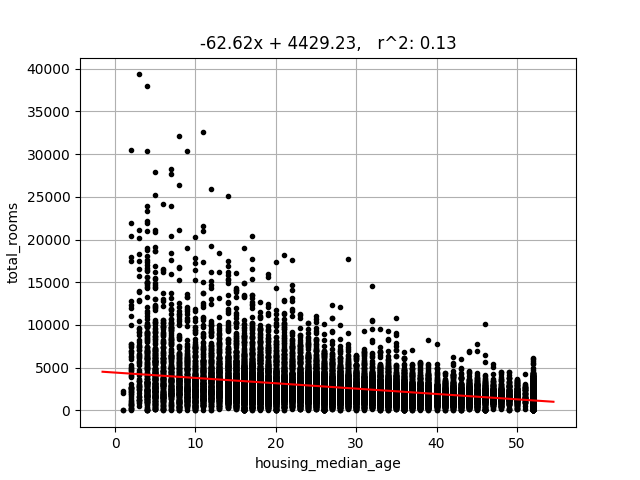
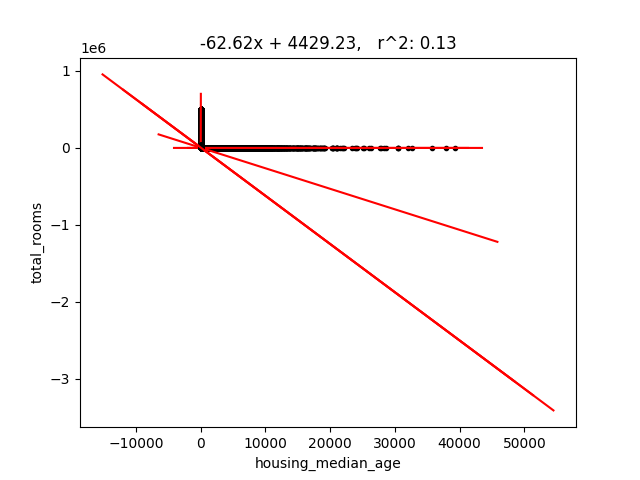
Tenemos interfaz gráfica chavales

diff --git a/interfaz.py b/interfaz.py
@@ -1,20 +1,56 @@
-#de momento solo es una ventana con un botón que outputea una imagen.
-#Hay qye installar el tkinter y el Pillow para que vaya.
 from tkinter import *
-from PIL import ImageTk, Image
+from tkinter import PhotoImage
+from tkinter import filedialog
+from PIL import Image, ImageTk
+import pandas as p
+import numpy as np
+import matplotlib.pyplot as plt
+from sklearn.linear_model import LinearRegression
+from regresion import *
+# Función para mostrar la imagen al hacer clic en el botón
 
-window = Tk()
-window.title("a")
-window.geometry("900x900")
+# Crear una ventana principal
+root = Tk()
+root.title("Mostrar Imagen")
+root.geometry("900x1000")
 
-def output():
-    image = Image.open("fig.png")
-    photo = ImageTk.PhotoImage(image)
-    label = Label(window, image=photo)
-    label.image = photo
-    label.place(x=100,y=100)
+def mostrar(data):
+    i = 0
+    for c in data.columns:
+        print(f'Columna número {i}: {c}')
+        label = Label(root,text=f'Columna número {i}: {c}').pack()
+        i += 1
     
+def leer():
+    global data
+    root.filename = filedialog.askopenfile(initialdir="/modelos")
+    data = p.read_csv(root.filename)
+    mostrar(data)
 
-button = Button(window,text = "display", command=output)
+def mostrar_imagen():
+    global entry1
+    global entry2
+    global imagen
+    num1 = int(entry1.get())
+    num2 = int(entry2.get())
+    regresionF(data,num1,num2)
+
+    imagen = ImageTk.PhotoImage(Image.open("fig.png"))
+    imagen1 = Label(image=imagen).place(x =150, y = 500)
+
+# Crear un botón
+buttonl = Button(root,text="leer archivo",command = leer).pack()
+
+button = Button(root, text="Mostrar Imagen", command=mostrar_imagen)
 button.pack()
-window.mainloop()
+
+entry1= Entry(root, width= 40)
+entry1.focus_set()
+entry1.place(x =330, y= 450)
+
+entry2= Entry(root, width= 40)
+entry2.focus_set()
+entry2.place(x=330, y =480)
+Button(root, text="Quit", command=root.destroy).pack()
+# Ejecutar el bucle principal
+root.mainloop()

diff --git a/regresion.py b/regresion.py
@@ -1,0 +1,33 @@
+import pandas as p
+import numpy as np
+import matplotlib.pyplot as plt
+from sklearn.linear_model import LinearRegression
+
+def abline(slope, intercept):
+    """
+    robado de: https://stackoverflow.com/questions/7941226/how-to-add-line-based-on-slope-and-intercept
+    """
+    axes = plt.gca()
+    x_vals = np.array(axes.get_xlim())
+    y_vals = intercept + slope * x_vals
+    plt.plot(x_vals, y_vals, '-r') # fmt = '[marker][line][color]'
+
+def regresionF(data,i,j):
+    selectedColumns = data.iloc[:, [i, j]]
+    x = np.array(selectedColumns.iloc[:, 0]).reshape((-1, 1)) # este es una columna con muchas filas
+    y = np.array(selectedColumns.iloc[:, 1])
+
+    model = LinearRegression().fit(x, y)
+
+    intercept = model.intercept_ # término independiente
+    slope = model.coef_[0]
+    eq = f'{round(slope, 2)}x ' + ('+' if intercept > 0 else '-') + f' {round(abs(intercept), 2)}'
+    
+    r_sq = round(model.score(x, y), 2)
+    plt.plot(x, y, '.k')
+    plt.ylabel(selectedColumns.columns[1])
+    plt.xlabel(selectedColumns.columns[0])
+    abline(slope, intercept)
+    plt.title(eq + f',   r^2: {r_sq}')
+    plt.grid()
+    plt.savefig("fig.png") #guarda la imagen para luego poder outputearla
